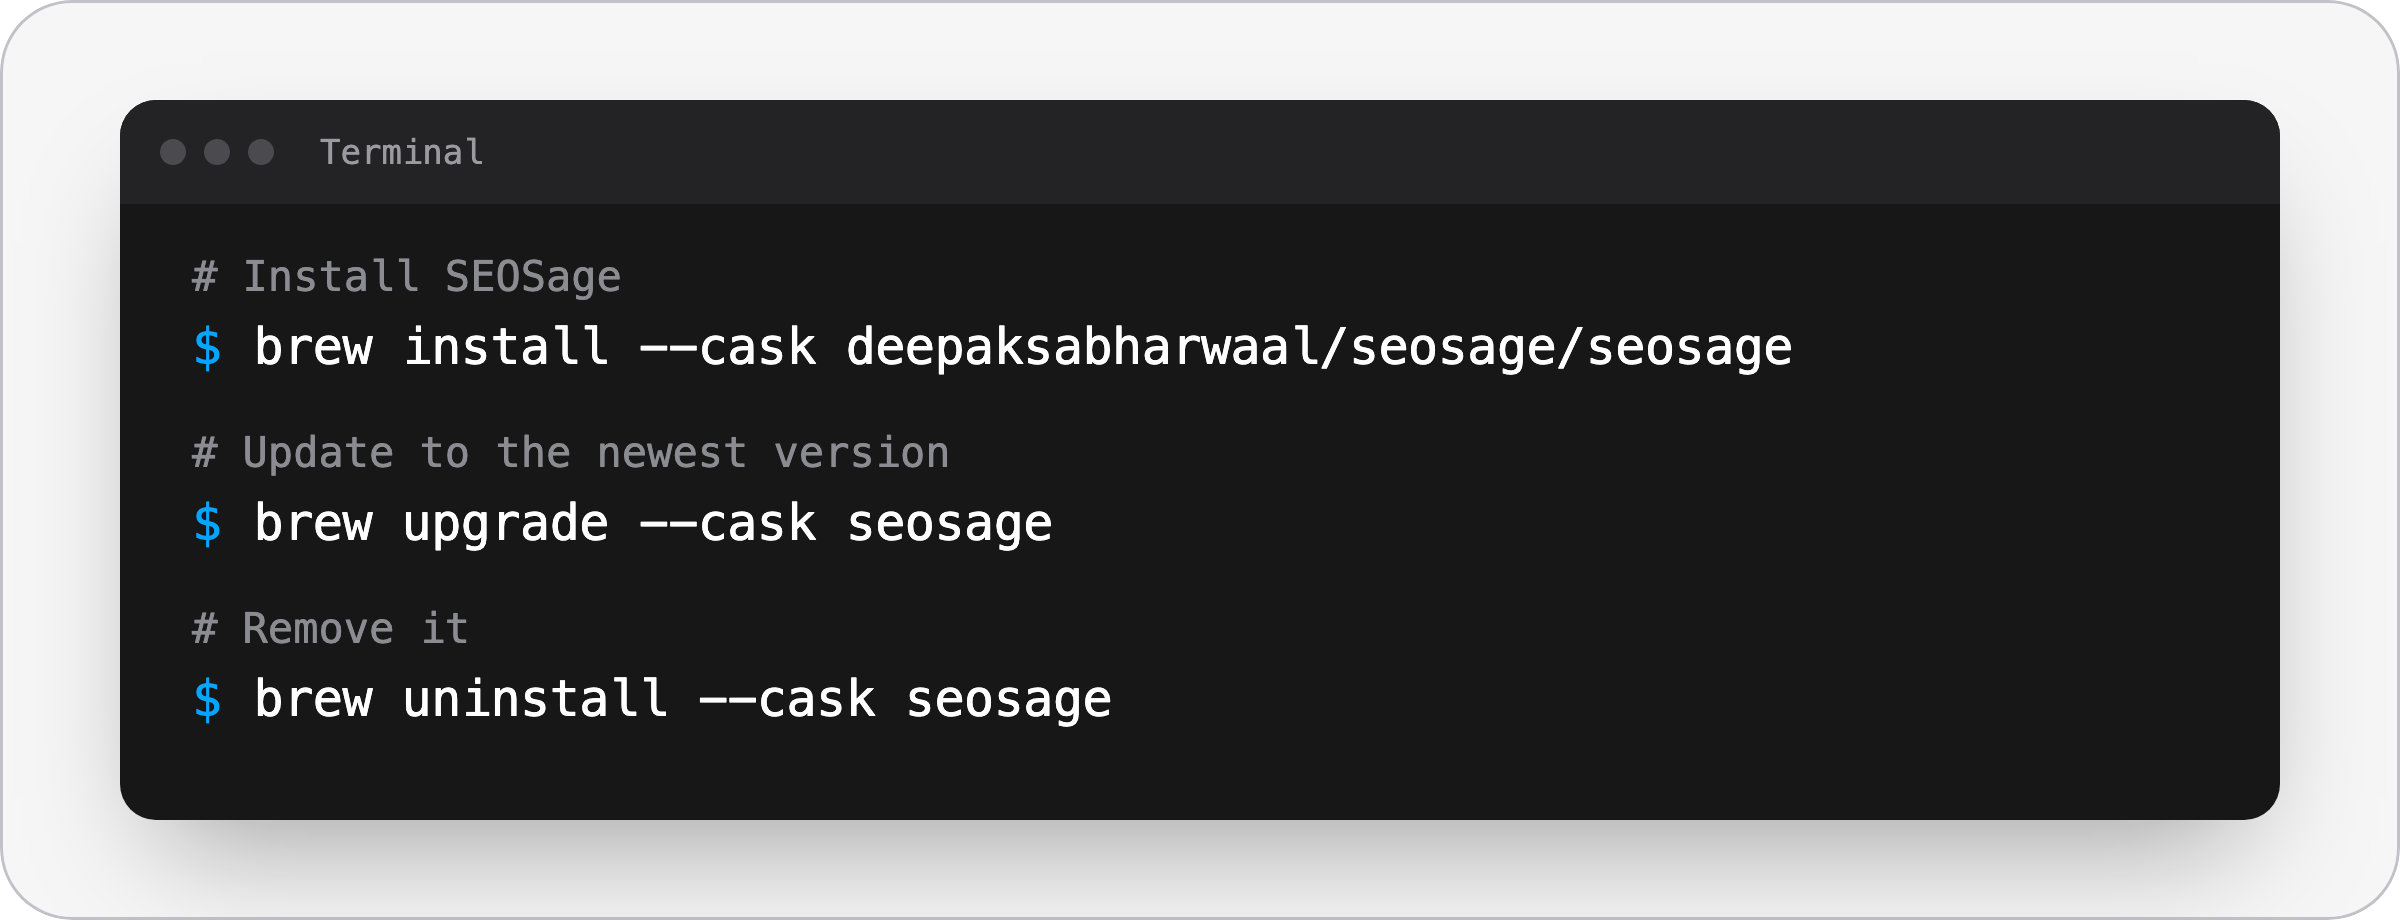
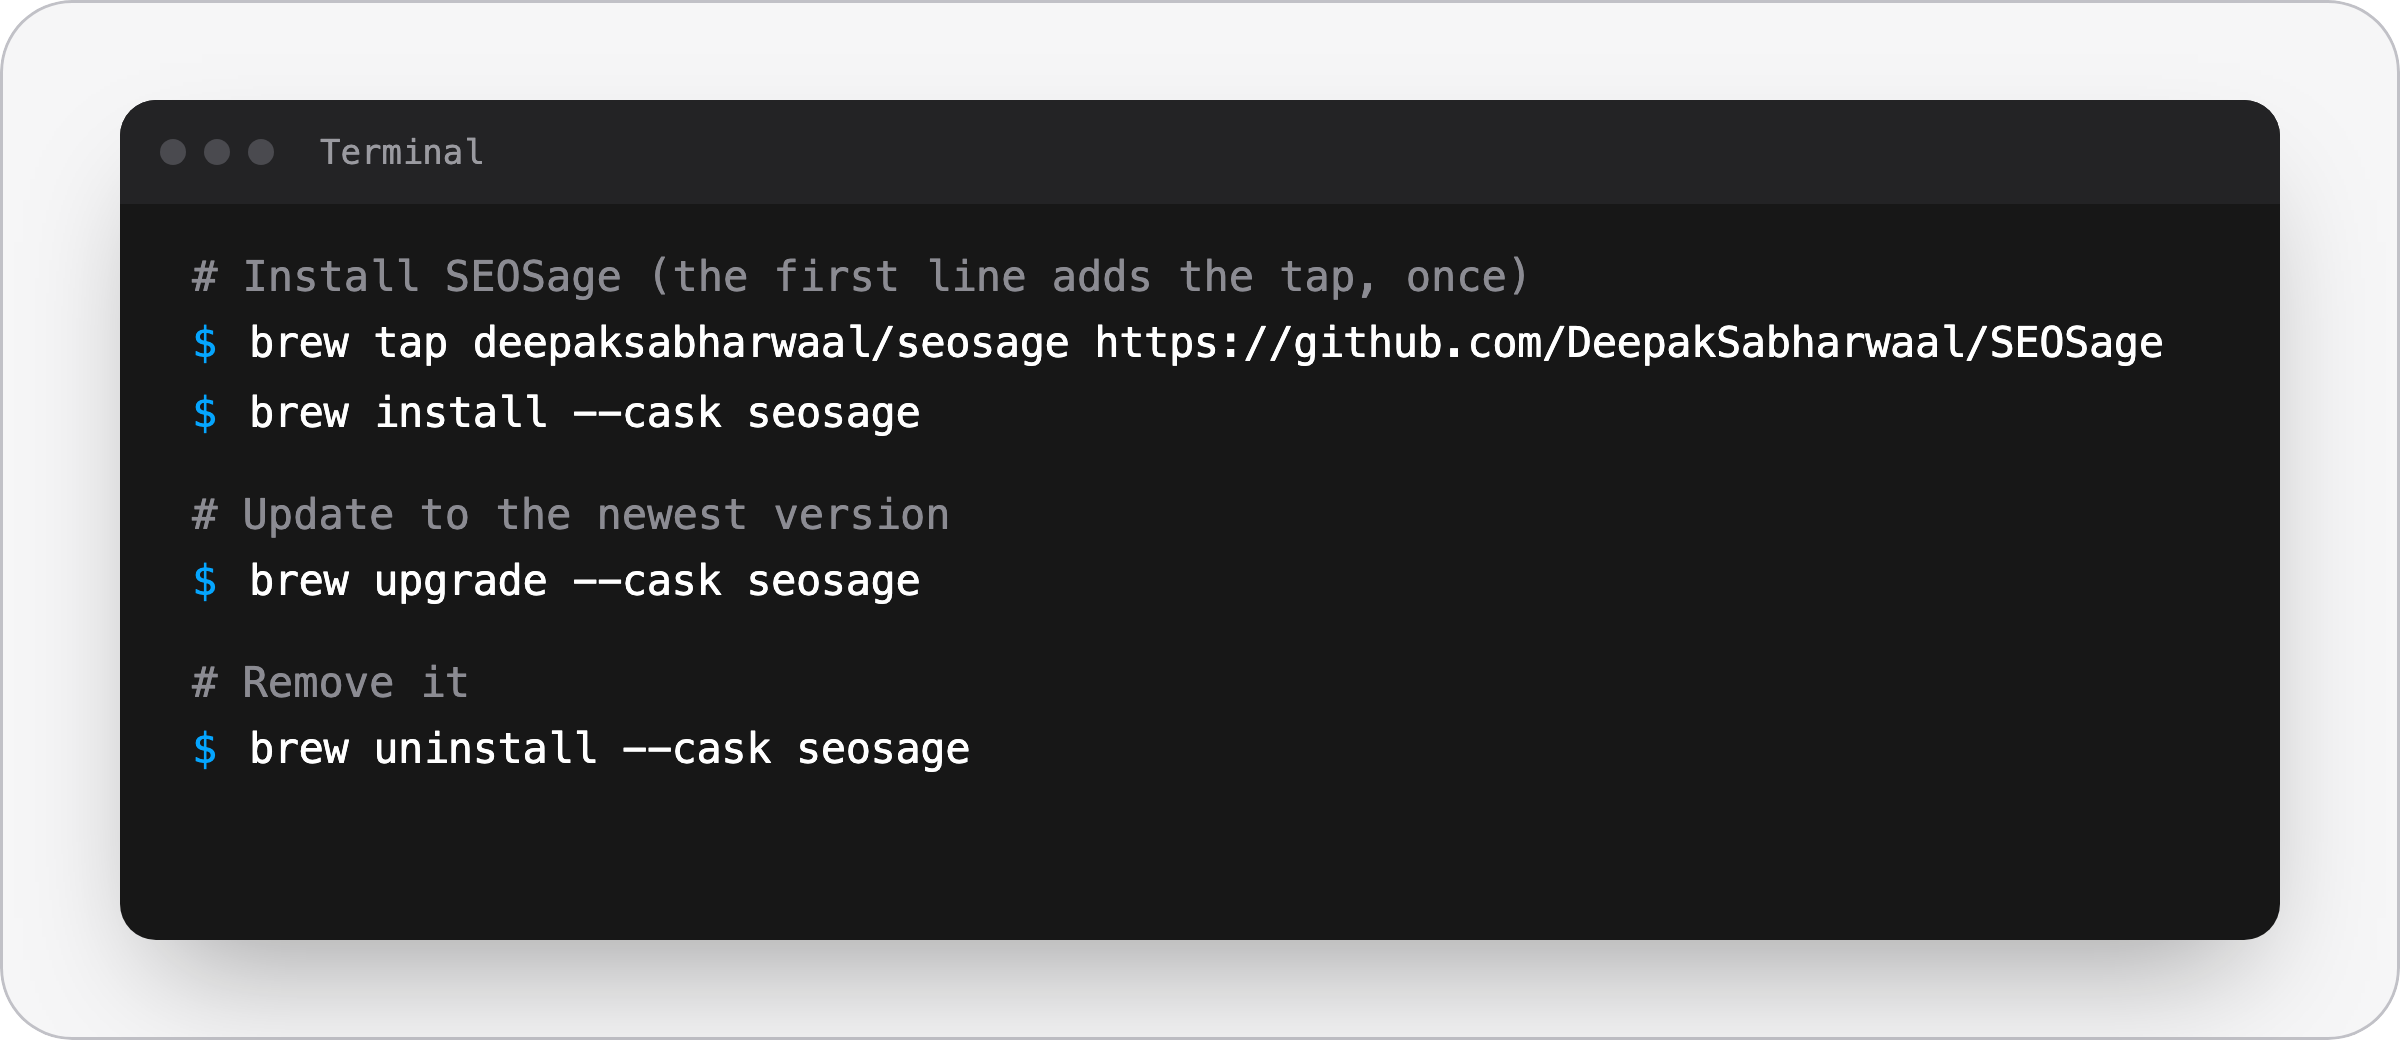
New repo name: install now taps the SEOSage repo by address

diff --git a/README.md b/README.md
@@ -1,19 +1,20 @@
 <p align="center">
-  <a href="https://seosage.co/"><img src="assets/banner.png?v=3" alt="SEOSage app for Mac: install the desktop SEO audit software with one Homebrew command" width="100%"></a>
+  <a href="https://seosage.co/"><img src="assets/banner.png?v=4" alt="SEOSage app for Mac: install the desktop SEO audit software with Homebrew" width="100%"></a>
 </p>
 
 # SEOSage app for Mac: Homebrew install
 
 [**SEOSage**](https://seosage.co/) is desktop SEO audit software for freelancers and small agencies. It crawls every page of your website with no page limits, finds the SEO problems, and exports client-ready reports. It runs on your own computer, so your crawl data stays with you.
 
-This repository is the official [Homebrew](https://brew.sh) tap for the SEOSage app. It only holds the install file. The app itself is commercial software and its code is not published here.
+This repository is the official [Homebrew](https://brew.sh) tap (the `brew tap` line adds this repository once) for the SEOSage app. It only holds the install file. The app itself is commercial software and its code is not published here.
 
 ## Install
 
-<p align="center"><img src="assets/install.png?v=3" alt="Terminal showing the brew commands to install, update and remove the SEOSage app" width="80%"></p>
+<p align="center"><img src="assets/install.png?v=4" alt="Terminal showing the brew commands to install, update and remove the SEOSage app" width="80%"></p>
 
 ```sh
-brew install --cask deepaksabharwaal/seosage/seosage
+brew tap deepaksabharwaal/seosage https://github.com/DeepakSabharwaal/SEOSage
+brew install --cask seosage
 ```
 
 Update later:
@@ -34,9 +35,9 @@ Works on Apple Silicon (M1, M2, M3, M4) and Intel Macs. Homebrew picks the right
 
 Crawl a whole site, see every issue grouped by type, click one to see the pages it affects, then export a report for your client. The screens below are from a real crawl of [marketingly.org](https://marketingly.org/).
 
-<p align="center"><img src="assets/screen-issues.png?v=3" alt="SEOSage app Issues screen listing errors, warnings and notices from a full site crawl" width="90%"></p>
+<p align="center"><img src="assets/screen-issues.png?v=4" alt="SEOSage app Issues screen listing errors, warnings and notices from a full site crawl" width="90%"></p>
 
-<p align="center"><img src="assets/screen-report.png?v=3" alt="SEOSage app Reports screen with site health score and export to CSV, PDF or PowerPoint" width="90%"></p>
+<p align="center"><img src="assets/screen-report.png?v=4" alt="SEOSage app Reports screen with site health score and export to CSV, PDF or PowerPoint" width="90%"></p>
 
 ## Licence
 
